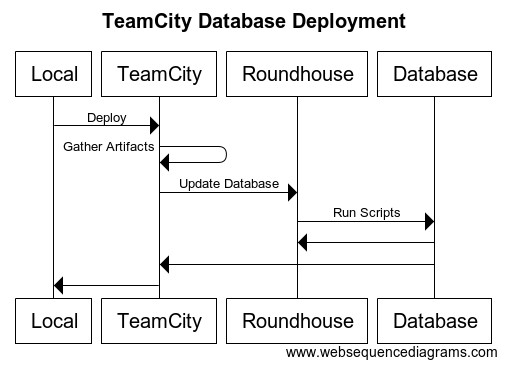
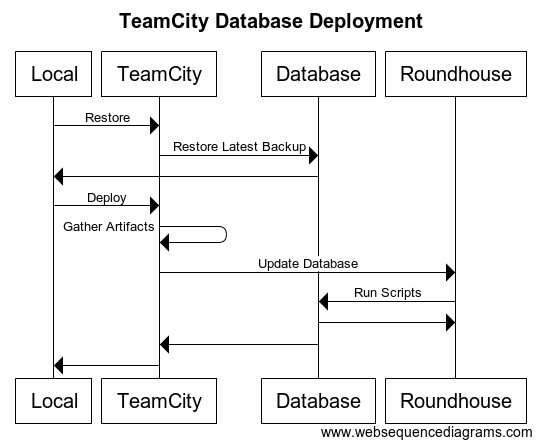
Modifed deployment process

Changed region(s): [[0.0296, 0.0299, 1.0, 0.9864], [0.4447, 0.8071, 0.4743, 0.837], [0.4447, 0.2391, 0.4743, 0.269]]

diff --git a/src/DatabaseBuild/DatabaseBuildProcess20180601.html b/src/DatabaseBuild/DatabaseBuildProcess20180601.html
@@ -184,8 +184,9 @@ TeamCity -> TeamCity : Local Build
 TeamCity -> Local : Pass or Fail
 
 -->
-
-
+					<section>
+						<p>Artifacts should contain ALL files needed to deploy.</p>
+					</section>
 				</section>
 
 				<section>
@@ -195,18 +196,15 @@ TeamCity -> Local : Pass or Fail
 					</section>
 
 					<section>
-						<p>[Screen cap of Team City single single click build]</p>
-					</section>
-					
-					<!-- Practice deployment in lower enviornments -->
-
-					<section>
 						<img src="images/TeamCityDatabaseDeployment.png" />
 					</section>
 					<!--
 
 title TeamCity Database Deployment
 
+Local -> TeamCity : Restore
+TeamCity -> Database : Restore Latest Backup
+Database -> Local :
 Local -> TeamCity : Deploy
 TeamCity -> TeamCity : Gather Artifacts
 TeamCity -> Roundhouse : Update Database
@@ -215,6 +213,16 @@ Database -> Roundhouse :
 Database -> TeamCity :
 TeamCity -> Local :
 					-->
+
+					<section>
+						<p>[Screen cap of Team City single single database restore]</p>
+					</section>
+
+					<section>
+						<p>[Screen cap of Team City single single click build]</p>
+					</section>
+					
+					<!-- Practice deployment in lower enviornments -->
 
 					<section>
 						<h3>Database Version Tables</h3>
